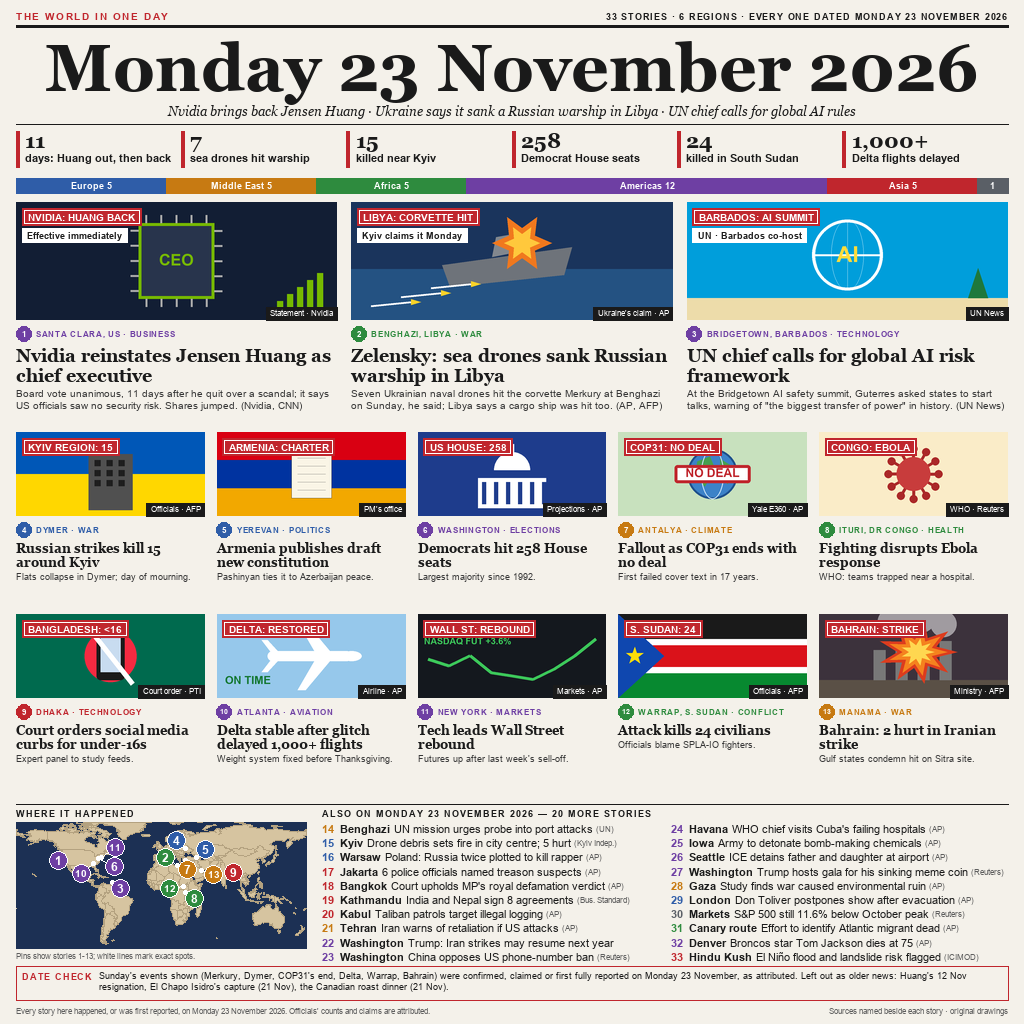
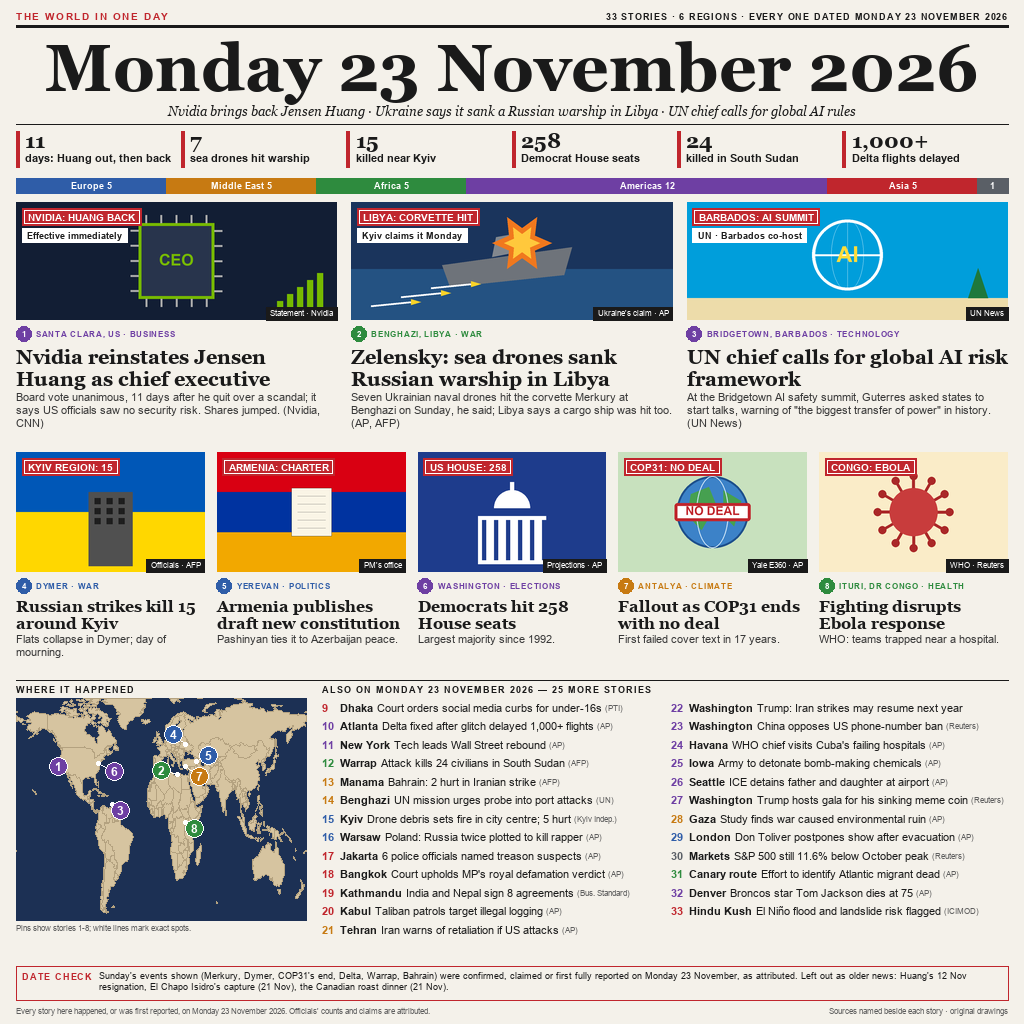
Redesign for small sizes: 8 illustrated stories, bigger type, larger map, 25 briefs

diff --git a/build.py b/build.py
@@ -218,7 +218,7 @@ def card(x, y, w, ih, n, region, kicker, head, body, kind, lab, src, chip=None, 
     d.text((x + 7.5 - tw(str(n), f) / 2, yy + 3), str(n), font=f, fill="white")
     spaced(x + 20, yy + 3, kicker, SANS_B(8), c, 0.7)
     yy = text_block(x, yy + 19, head, SERIF_B(hf), w, INK, int(hf * 1.12))
-    text_block(x, yy + 2, body, SANS(10 if lead else 9), w, (55, 55, 55), 12 if lead else 11)
+    text_block(x, yy + 2, body, SANS(11), w, (55, 55, 55), 13)
 
 leads = [
     (1, "Americas", "SANTA CLARA, US · BUSINESS", "Nvidia reinstates Jensen Huang as chief executive",
@@ -234,7 +234,7 @@ leads = [
 gx = M; gw = (W - 2 * M - 2 * 14) / 3; y = 202
 for i, L in enumerate(leads):
     n, rg, k, hd, bd, kind, lab, chip, src = L
-    card(M + i * (gw + 14), y, gw, 118, n, rg, k, hd, bd, kind, lab, src, chip, 18, True)
+    card(M + i * (gw + 14), y, gw, 118, n, rg, k, hd, bd, kind, lab, src, chip, 20, True)
 
 sec = [
     (4, "Europe", "DYMER · WAR", "Russian strikes kill 15 around Kyiv", "Flats collapse in Dymer; day of mourning.", "flag_ua", "KYIV REGION: 15", "Officials · AFP"),
@@ -248,17 +248,18 @@ sec = [
     (12, "Africa", "WARRAP, S. SUDAN · CONFLICT", "Attack kills 24 civilians", "Officials blame SPLA-IO fighters.", "sudan", "S. SUDAN: 24", "Officials · AFP"),
     (13, "Middle East", "MANAMA · WAR", "Bahrain: 2 hurt in Iranian strike", "Gulf states condemn hit on Sitra site.", "fire", "BAHRAIN: STRIKE", "Ministry · AFP"),
 ]
+sec = sec[:5]
 cw = (W - 2 * M - 4 * 12) / 5
-y = 432
+y = 452
 for i, S in enumerate(sec):
     r_, c_ = divmod(i, 5)
     n, rg, k, hd, bd, kind, lab, src = S
-    card(M + c_ * (cw + 12), y + r_ * 182, cw, 84, n, rg, k, hd, bd, kind, lab, src, None, 13)
+    card(M + c_ * (cw + 12), y, cw, 120, n, rg, k, hd, bd, kind, lab, src, None, 16)
 
 # ---- bottom: map + briefs
-by = 808; d.line([M, by - 4, W - M, by - 4], fill=INK, width=1)
+by = 684; d.line([M, by - 4, W - M, by - 4], fill=INK, width=1)
 spaced(M, by, "WHERE IT HAPPENED", SANS_B(9), INK, 1)
-mx0, my0, mx1, my1 = M, by + 14, M + 290, by + 140
+mx0, my0, mx1, my1 = M, by + 14, M + 290, by + 236
 d.rectangle([mx0, my0, mx1, my1], fill=(28, 48, 84))
 def P(lon, lat): return (mx0 + (lon + 180) / 360 * (mx1 - mx0), my0 + (80 - lat) / 140 * (my1 - my0))
 LAND = (214, 196, 160)
@@ -277,23 +278,28 @@ pins = [(1, -122, 37, "Americas"), (2, 20, 32, "Africa"), (3, -59.6, 13, "Americ
         (6, -77, 38.9, "Americas"), (7, 30.7, 36.9, "Middle East"), (8, 30, 1.5, "Africa"), (9, 90.4, 23.8, "Asia"), (10, -84.4, 33.7, "Americas"),
         (11, -74, 40.7, "Americas"), (12, 28.5, 8.2, "Africa"), (13, 50.6, 26.2, "Middle East")]
 OFF = {6: (16, 8), 10: (-12, 10), 11: (14, -10), 1: (-4, 0), 3: (8, 6), 8: (9, 6), 12: (-14, 2),
-       2: (-12, -8), 7: (2, 9), 4: (-9, -8), 5: (9, -8), 13: (12, 4), 9: (0, 0)}
-for n, lo, la, rg in pins:
+       2: (-16, -4), 7: (14, 10), 4: (-12, -10), 5: (12, -6), 13: (12, 4), 9: (0, 0)}
+for n, lo, la, rg in [p_ for p_ in pins if p_[0] <= 8]:
     tx, ty = P(lo, la); ox, oy = OFF.get(n, (0, 0))
     px, py = min(max(tx + ox, mx0 + 8), mx1 - 8), min(max(ty + oy, my0 + 8), my1 - 8)
     if (ox, oy) != (0, 0):
         d.line([tx, ty, px, py], fill="white", width=1); d.ellipse([tx - 2, ty - 2, tx + 2, ty + 2], fill="white")
-for n, lo, la, rg in pins:
+for n, lo, la, rg in [p_ for p_ in pins if p_[0] <= 8]:
     tx, ty = P(lo, la); ox, oy = OFF.get(n, (0, 0))
     px, py = min(max(tx + ox, mx0 + 8), mx1 - 8), min(max(ty + oy, my0 + 8), my1 - 8)
     d.ellipse([px - 9, py - 9, px + 9, py + 9], fill=REG[rg], outline="white")
     f = SANS_B(12 if n < 10 else 10); s = str(n)
     bb = d.textbbox((0, 0), s, font=f); d.text((px - (bb[0] + bb[2]) / 2, py - (bb[1] + bb[3]) / 2), s, font=f, fill="white")
-d.text((M, my1 + 3), "Pins show stories 1-13; white lines mark exact spots.", font=SANS(8), fill=GREY)
+d.text((M, my1 + 3), "Pins show stories 1-8; white lines mark exact spots.", font=SANS(8), fill=GREY)
 
 bx = M + 306
-spaced(bx, by, "ALSO ON MONDAY 23 NOVEMBER 2026 — 20 MORE STORIES", SANS_B(9), INK, 1)
+spaced(bx, by, "ALSO ON MONDAY 23 NOVEMBER 2026 — 25 MORE STORIES", SANS_B(9), INK, 1)
 briefs = [
+    (9, "Asia", "Dhaka", "Court orders social media curbs for under-16s", "PTI"),
+    (10, "Americas", "Atlanta", "Delta fixed after glitch delayed 1,000+ flights", "AP"),
+    (11, "Americas", "New York", "Tech leads Wall Street rebound", "AP"),
+    (12, "Africa", "Warrap", "Attack kills 24 civilians in South Sudan", "AFP"),
+    (13, "Middle East", "Manama", "Bahrain: 2 hurt in Iranian strike", "AFP"),
     (14, "Middle East", "Benghazi", "UN mission urges probe into port attacks", "UN"),
     (15, "Europe", "Kyiv", "Drone debris sets fire in city centre; 5 hurt", "Kyiv Indep."),
     (16, "Europe", "Warsaw", "Poland: Russia twice plotted to kill rapper", "AP"),
@@ -317,7 +323,7 @@ briefs = [
 ]
 colw = (W - M - bx - 12) / 2
 for i, (n, rg, pl, s, src) in enumerate(briefs):
-    c_, r_ = divmod(i, 10); xx = bx + c_ * (colw + 12); yy = by + 15 + r_ * 14.2
+    c_, r_ = divmod(i, 13); xx = bx + c_ * (colw + 12); yy = by + 18 + r_ * 18.5
     d.text((xx, yy), str(n), font=SANS_B(11), fill=REG[rg]); xx2 = xx + 18
     d.text((xx2, yy), pl, font=SANS_B(11), fill=INK); xx2 += tw(pl, SANS_B(11)) + 4
     d.text((xx2, yy), s, font=SANS(11), fill=INK); xx2 += tw(s, SANS(11)) + 3
